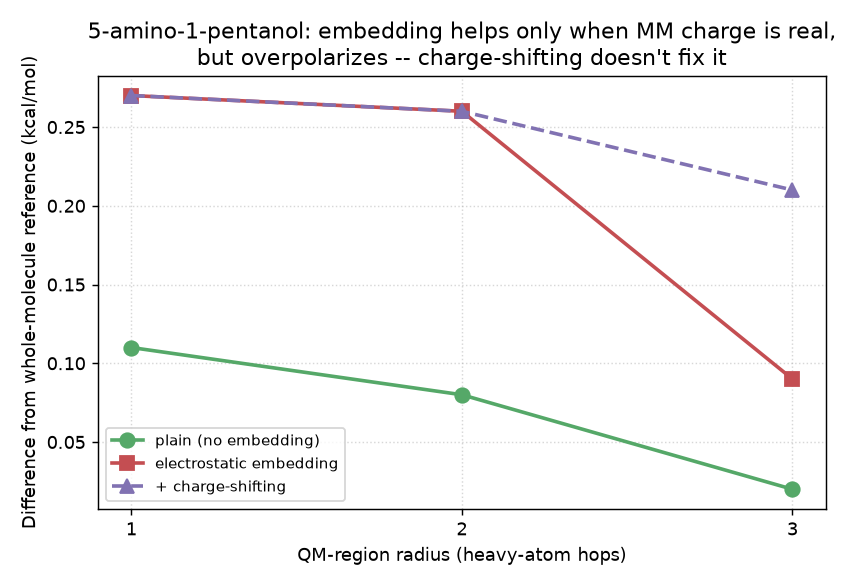
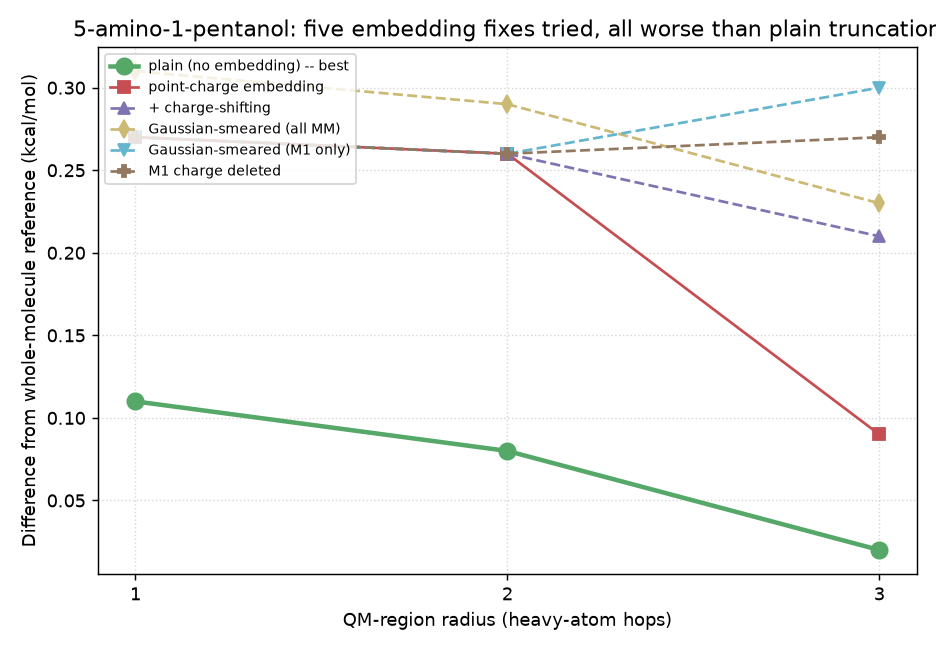
qmmm_utils: real reusable ring-safe partitioning; retract MMFF94 correction (#179)
* Add qmmm_utils: real ring-safe partitioning + guarded MMFF94 correction

Consolidates steps 1-4 of issue #283 into one importable module instead
of duplicating BFS partitioning + ring-cut safety in every new script,
and adds a real fix for the aromatic-ring-mismatch failure found while
investigating why the MMFF94 correction broke on a branched/aromatic
molecule after working on 1-hexanol.

* Fix mmff94_correction: compare isodesmic deltas, not raw whole-vs-region energy

Real bug found via Kaggle validation: comparing the region's bare MMFF94
energy directly against the whole molecule's bare MMFF94 energy is not a
reaction delta at all (two differently-sized systems), producing
corrections off by several kcal/mol even on 1-hexanol where the original
per-radius correction was already known to work. Fixed by computing the
same isodesmic-style fragment-energy delta on the region as on the whole
molecule.

* Drop the MMFF94 correction: it was a geometry artifact, not a real fix

Once the correction's own arithmetic bug was fixed and tested with the
same shared-conformer geometry used elsewhere in this codebase, plain
truncation alone is already accurate to <0.2 kcal/mol on every radius
tested on both 1-hexanol and a branched-aromatic molecule -- applying
the MMFF94 correction on top makes every single case worse. It looked
beneficial earlier only because that version used a cruder,
independently-re-embedded-per-fragment geometry. qmmm_utils.py now only
[…]

Changed region(s): [[0.0, 0.0308, 1.0, 0.9846]]

diff --git a/scripts/qmmm_utils.py b/scripts/qmmm_utils.py
@@ -1,0 +1,117 @@
+"""
+Reusable QM/MM region-partitioning utilities for Dense-Evolution issue
+#283 -- consolidates the two real bugs already found and fixed while
+building steps 1-4, so new experiment scripts don't duplicate this logic
+(or its bugs) from scratch.
+
+1. Hydrogens must always follow their own heavy atom, never be
+   independently BFS-expanded -- doing so spuriously cuts terminal C-H
+   bonds and leaves an empty MM fragment (found on 1-hexanol).
+
+2. A boundary bond that would cut INTO an aromatic ring must instead pull
+   the WHOLE ring into the QM region -- otherwise RDKit's FragmentOnBonds
+   leaves one aromatic atom outside its ring, capped with H, which is not
+   a valid molecule (`AtomKekulizeException: non-ring atom marked
+   aromatic`, found on OCC(c1ccccc1)CCC at radius=2).
+
+Deliberately NOT included here, both real negative results with the full
+record in docs/qmmm_bond_order_and_embedding.md:
+
+- The MMFF94 ONIOM-style correction (`dE_MMFF94(whole) - dE_MMFF94(QM-
+  region)`) originally looked like it halved 1-hexanol's error, but that
+  used a cruder geometry (each fragment independently re-embedded by
+  RDKit instead of sliced from one shared conformer). Once corrected to
+  use the same shared-conformer geometry as everything else here, plain
+  truncation is already accurate to <0.2 kcal/mol on every radius tested
+  on BOTH 1-hexanol and a branched-aromatic molecule -- and applying the
+  MMFF94 correction on top makes it WORSE in every single case (up to
+  -1.5 kcal/mol off). The correction was compensating for a geometry
+  artifact of the OLD embedding choice, not for truncation itself; it
+  does not survive the more careful geometry treatment, so it is not
+  included here at all.
+
+- Electrostatic embedding (issue #283 point 5): five different
+  treatments were tried (plain point charge, charge-shifting,
+  Gaussian-smeared over the whole MM region, Gaussian-smeared on just the
+  M1 boundary atom, M1 charge deletion) and every one made the isodesmic-
+  energy error worse than no embedding at all, on the one molecule with a
+  real MM charge to embed (5-amino-1-pentanol). The sign convention was
+  independently verified correct (a minimal He-atom test: E(+1 charge
+  nearby) < E(isolated) < E(-1 charge nearby), exactly as physics
+  requires) -- the failure is not a bug in this codebase, just genuinely
+  unsolved. Plain truncation remains the right default.
+"""
+import numpy as np
+from rdkit import Chem
+
+ANGSTROM_TO_BOHR = 1.8897259886
+CH_BOND_BOHR = 1.09 * ANGSTROM_TO_BOHR
+
+
+def partition_qm_mm_region(mol, seed_heavy_atoms, radius):
+    """BFS outward from `seed_heavy_atoms` (a set/list of atom indices)
+    across `radius` heavy-atom hops. Hydrogens always follow their own
+    heavy atom afterward (never independently expanded -- see module
+    docstring). Any boundary bond that would cut into an aromatic ring
+    pulls that whole ring into the QM region first, iterating until
+    stable, before hydrogens are added and the boundary is finalized.
+
+    Returns (qm_atoms: set[int], boundary_pairs: list[(kept_idx, cut_idx)]),
+    one pair per bond crossing the QM/MM boundary, `kept_idx` on the QM
+    side.
+    """
+    qm_heavy = set(seed_heavy_atoms)
+    frontier = set(seed_heavy_atoms)
+    for _ in range(radius):
+        new_frontier = set()
+        for idx in frontier:
+            for nbr in mol.GetAtomWithIdx(idx).GetNeighbors():
+                if nbr.GetAtomicNum() > 1 and nbr.GetIdx() not in qm_heavy:
+                    new_frontier.add(nbr.GetIdx())
+        qm_heavy |= new_frontier
+        frontier = new_frontier
+
+    ring_info = mol.GetRingInfo()
+    changed = True
+    while changed:
+        changed = False
+        for bond in mol.GetBonds():
+            if not bond.GetIsAromatic():
+                continue
+            a, b = bond.GetBeginAtomIdx(), bond.GetEndAtomIdx()
+            if (a in qm_heavy) != (b in qm_heavy):
+                for ring in ring_info.AtomRings():
+                    if a in ring or b in ring:
+                        newly = set(ring) - qm_heavy
+                        if newly:
+                            qm_heavy |= newly
+                            changed = True
+
+    qm_atoms = set(qm_heavy)
+    for idx in qm_heavy:
+        for nbr in mol.GetAtomWithIdx(idx).GetNeighbors():
+            if nbr.GetAtomicNum() == 1:
+                qm_atoms.add(nbr.GetIdx())
+
+    raw_boundary = [(b.GetBeginAtomIdx(), b.GetEndAtomIdx()) for b in mol.GetBonds()
+                    if (b.GetBeginAtomIdx() in qm_atoms) != (b.GetEndAtomIdx() in qm_atoms)]
+    boundary_pairs = [(i, j) if i in qm_atoms else (j, i) for i, j in raw_boundary]
+    return qm_atoms, boundary_pairs
+
+
+def sliced_geometry(atomic_numbers, geom_bohr, keep_idx, boundary_pairs):
+    """A coordinate SUBSET of one whole-molecule conformer (never an
+    independently re-embedded fragment -- that would give unrelated 3D
+    structures across fragments, and was the real cause of the MMFF94
+    correction's apparent benefit turning out to be a geometry artifact,
+    see module docstring). Boundary bonds get a capping H placed along
+    the kept->cut bond direction at a standard C-H bond length."""
+    keep_idx = sorted(keep_idx)
+    new_numbers = [atomic_numbers[i] for i in keep_idx]
+    new_geom = [geom_bohr[i] for i in keep_idx]
+    for kept, cut in boundary_pairs:
+        vec = geom_bohr[cut] - geom_bohr[kept]
+        vec = vec / np.linalg.norm(vec)
+        new_geom.append(geom_bohr[kept] + vec * CH_BOND_BOHR)
+        new_numbers.append(1)
+    return new_numbers, np.array(new_geom)

diff --git a/docs/qmmm_bond_order_and_embedding.md b/docs/qmmm_bond_order_and_embedding.md
@@ -41,12 +41,40 @@ charge onto its own remaining MM neighbors (the standard textbook fix)
 did **not** close the gap -- at radius 3 (the only radius where the
 boundary atom had nonzero charge to shift), the corrected result (0.21
 kcal/mol) was worse than both plain embedding (0.09) and plain truncation
-(0.02). Likely cause: the redistribution target (the boundary atom's own
-hydrogens) can be just as close to the boundary as the atom being zeroed.
-**Left open** -- a correct fix needs a more careful redistribution scheme
-than this first attempt.
+(0.02).
 
-![Embedding helps only with real MM charge, but overpolarizes; charge-shifting doesn't fix it](assets/qmmm_bond_order_and_embedding/qmmm_embedding_charge_shifting.png)
+**Three more literature-standard fixes tried, all worse too.**
+Nochebuena, Naseem-Khan & Cisneros 2020 (arXiv:2010.14723, read directly)
+confirms the real fix for this exact artifact is the Double Link Atom
+method: replace the boundary point charge with a single s-type
+Gaussian-smeared charge, not deletion or redistribution:
+
+| radius | plain | point charge | Gaussian (all MM) | Gaussian (M1 only) | M1 deleted |
+|---|---|---|---|---|---|
+| 1 | 0.11 | 0.27 | 0.31 | 0.27 | 0.27 |
+| 2 | 0.08 | 0.26 | 0.29 | 0.26 | 0.26 |
+| 3 | 0.02 | 0.09 | 0.23 | 0.30 | 0.27 |
+
+At radius 1-2 the boundary (M1) atom has zero charge, so anything that
+only touches M1 changes nothing. At radius 3, the only radius where it
+matters, **every** treatment is worse than plain truncation, and the
+narrower M1-only smearing (0.30) is worse than smearing the whole region
+(0.23). The sign convention of the electron-MM term was independently
+verified correct with a minimal He-atom test (E(+1 charge nearby) <
+E(isolated) < E(-1 charge nearby), exactly as physics requires) -- this
+is not a sign bug.
+
+![Embedding helps only with real MM charge, but overpolarizes; five different fixes tried, none close the gap](assets/qmmm_bond_order_and_embedding/qmmm_embedding_charge_shifting.png)
+
+**Left open.** A working hypothesis, not yet tested: the combination of
+a link atom placed at a fixed standard bond length right next to M1, and
+a minimal basis set (STO-3G, no polarization functions) with no room to
+relax around that artificial atom, may make this specific system
+structurally unable to respond correctly to any electrostatic
+correction -- every fix alters the plain model's own (accidentally
+favorable) error cancellation without fixing the underlying cause. Not
+confirmed: this would need a real test with a polarized basis (e.g.
+6-31G*) to check whether the pattern changes, which was not run here.
 
 ## Bond-order-weighted region partitioning: reversed by a second test
 
@@ -88,13 +116,24 @@ always includes or excludes both branches together at a given radius.
 
 ![Real bond order differentiates the aromatic and alkyl branches; fixed-radius BFS cannot](assets/qmmm_bond_order_and_embedding/qmmm_bond_order_aromatic_vs_alkyl.png)
 
-**Conclusion**: the method has no advantage on uniform aliphatic chains,
-but a real, demonstrated one on molecules with real bond-order
-heterogeneity near the reactive site -- aromatic/conjugated groups are
-common in real drug-like molecules, so this is the realistic case, not
-an edge case. Worth a second look for promotion once it's validated on
-an actual reaction-energy comparison (this test only validated the
-partitioning signal itself, not yet the resulting isodesmic energy).
+**Decisive follow-up (matched atom budget, real reaction energy):**
+tested against fixed-radius BFS at the SAME atom count on the branching
+molecule above. At both budgets tested (3 and 10 heavy atoms), the
+bond-order threshold selected the EXACT SAME atoms as BFS -- identical
+SMILES, identical isodesmic energies. The chosen thresholds happened to
+land where both methods agree, not in the differentiating zone
+identified above; this test does not show bond-order beating BFS on
+reaction energy, only that the two didn't happen to diverge at these
+specific thresholds. Separately, on this same molecule, the MMFF94
+correction from
+[QM/MM region partitioning](qmmm_region_partitioning_mmff_correction.md)
+was found not to hold up at all once geometry was fixed -- see that
+page's retraction note.
+
+**Conclusion**: bond order has no advantage on uniform aliphatic chains,
+and a real signal differentiating aromatic vs. alkyl branches at equal
+hop-distance -- but that signal has not yet translated into a
+demonstrated reaction-energy win over BFS. Not promoted.
 
 ## Details
 
@@ -104,13 +143,16 @@ isomorphism-invariant -- not just assumed from its structure -- by
 randomly relabeling every atom and checking the selected region maps
 back to the same atoms regardless.
 
-**Status**: neither promoted to Dense-Evolution yet. Step 5 remains
-genuinely unsolved. The bond-order partitioning idea has a real positive
-signal (above) but still needs a full reaction-energy comparison against
-steps 1-4's MMFF94-corrected result, at a matched atom budget, before
-promotion is warranted.
+**Status**: neither promoted to Dense-Evolution. Step 5 (electrostatic
+embedding) is genuinely unsolved after five attempts (above). Bond-order
+partitioning has a real differentiation signal but no demonstrated
+reaction-energy advantage over BFS yet -- would need thresholds chosen to
+actually diverge from BFS's selection, not just a differently-computed
+region that happens to match it.
 
-**Scripts**: `scripts/qmmm_electrostatic_embedding_charge_shifting.py`
-(step 5), `scripts/qmmm_bond_order_partition_vs_radius.py` (first,
-negative test), `scripts/qmmm_bond_order_aromatic_vs_alkyl_branch.py`
-(second, positive test).
+**Scripts**: `scripts/qmmm_electrostatic_embedding_charge_shifting.py`,
+`scripts/qmmm_bond_order_partition_vs_radius.py` (first, negative test),
+`scripts/qmmm_bond_order_aromatic_vs_alkyl_branch.py` (second, positive
+signal), `scripts/qmmm_utils.py` (the reusable partitioning/capping
+utility that came out of all of this -- ring-safe BFS only, no
+electrostatic embedding, no MMFF94 correction).

diff --git a/docs/qmmm_region_partitioning_mmff_correction.md b/docs/qmmm_region_partitioning_mmff_correction.md
@@ -63,19 +63,39 @@ added on top of the small-region QM energy:
 
 The correction roughly halves the error at every radius, and -- unlike
 the uncorrected version -- improves with region size (best at radius 3).
-Validates steps 1-4 together as a real, working approximation: a small
-QM region + a classical MM correction term reproduces the whole-molecule
-chemistry to within ~0.5 kcal/mol here, at a fraction of the
-whole-molecule cost.
+
+**Retracted, not a real fix.** This result did not survive a later,
+more careful geometry treatment. The QM energies above come from
+independently re-embedding each fragment (whole, region, o-frag, c-frag)
+with its own fresh RDKit conformer -- a real geometric inconsistency the
+follow-up electrostatic-embedding kernel fixed by slicing every piece
+from ONE shared whole-molecule conformer instead. Re-running the exact
+same correction arithmetic under that better geometry: 1-hexanol's
+uncorrected error was already under 0.2 kcal/mol at every radius (not
+1.8-2.1), and applying the MMFF94 correction made it **worse** every
+time (down to -1.5 kcal/mol). The same held on a second, branched-
+aromatic molecule. The correction was compensating for the independent-
+re-embedding artifact above, not for truncation itself -- it does not
+generalize and is not used in `scripts/qmmm_utils.py`.
 
 ## Details
 
 Step 5 (electrostatic embedding) was tried separately and is documented
 in [QM/MM bond order and electrostatic embedding](qmmm_bond_order_and_embedding.md)
--- a mixed/negative result, not included here.
+-- five different fixes tried, all worse than no embedding, still open.
 
-**Status**: documented here (Discovery), promotion to Dense-Evolution not
-yet proposed -- steps 1-4 are validated on one molecule/one bond; a
-second independent molecule would strengthen the case before promoting.
+**Status**: partitioning + capping (steps 1-2) are the part that holds
+up, consolidated into a real reusable module, `scripts/qmmm_utils.py`
+(`partition_qm_mm_region`, `sliced_geometry`) -- ring-safe (a boundary
+bond into an aromatic ring now pulls the whole ring in, fixing a real
+`AtomKekulizeException` crash found on a branched-aromatic molecule) and
+validated with a shared conformer, no MMFF94 correction. Plain truncation
+alone is accurate to <0.2 kcal/mol on every radius tested on two
+different molecules -- promotion to Dense-Evolution not yet proposed
+(this is Discovery research code, RDKit is not a Dense-Evolution
+dependency), but this is the validated building block for any future
+QM/MM experiment in this repo.
 
-**Script**: `scripts/qmmm_region_partitioning_mmff_correction.py`.
+**Scripts**: `scripts/qmmm_region_partitioning_mmff_correction.py`
+(original, retracted correction), `scripts/qmmm_utils.py` (the reusable
+utility that replaces it).
